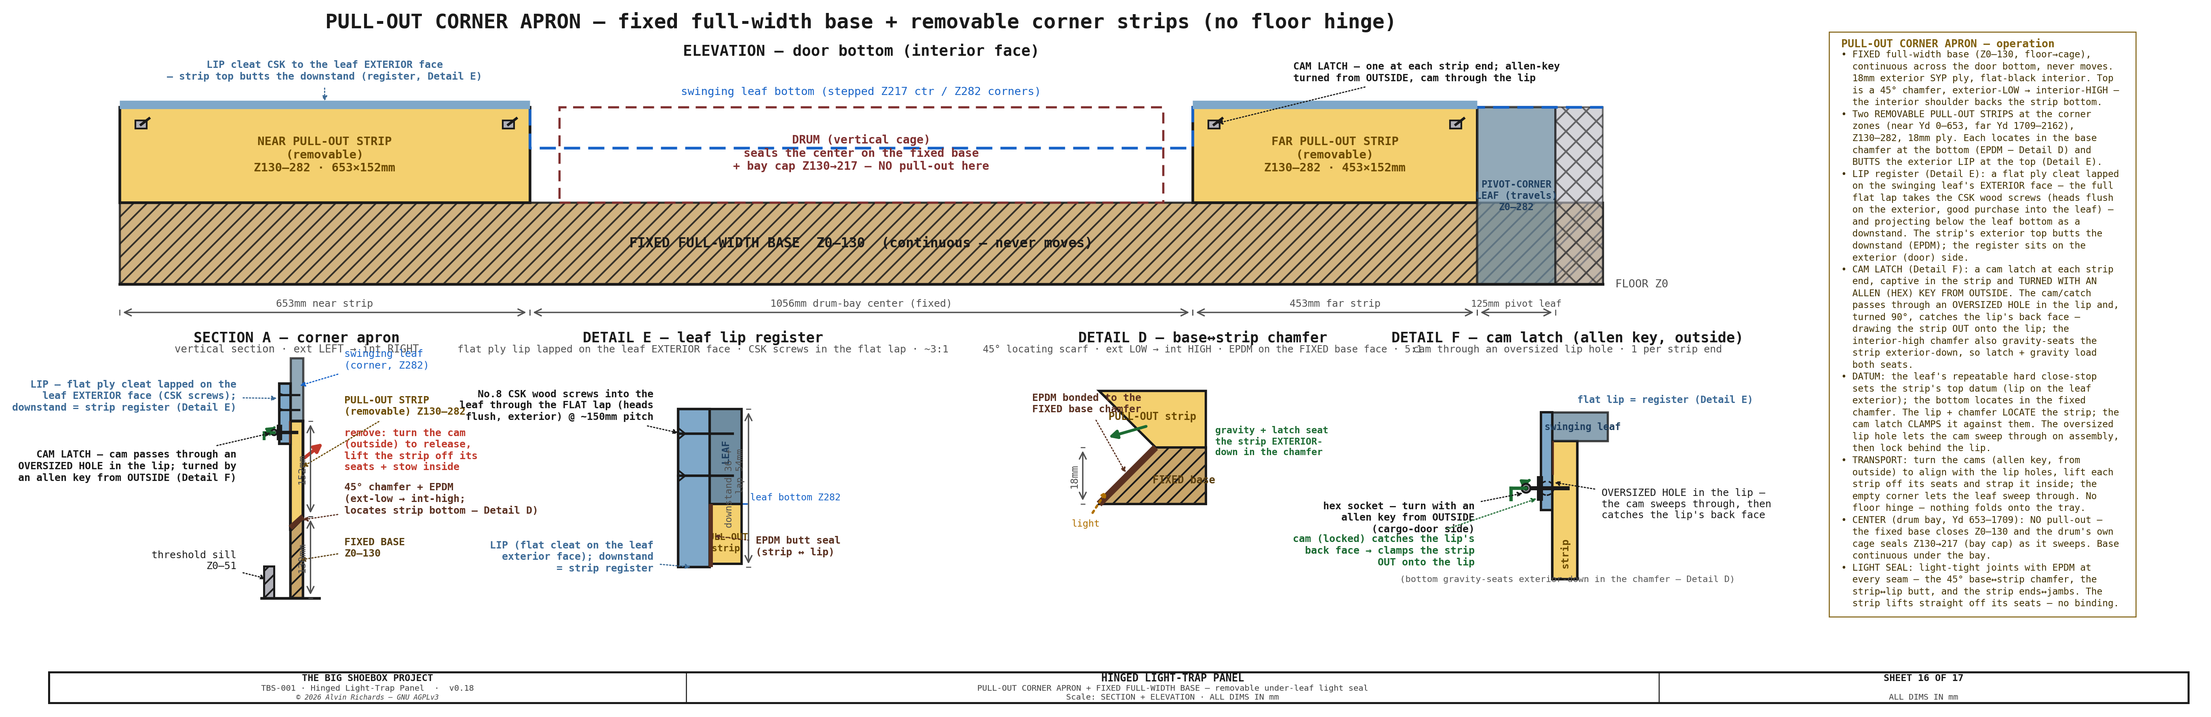
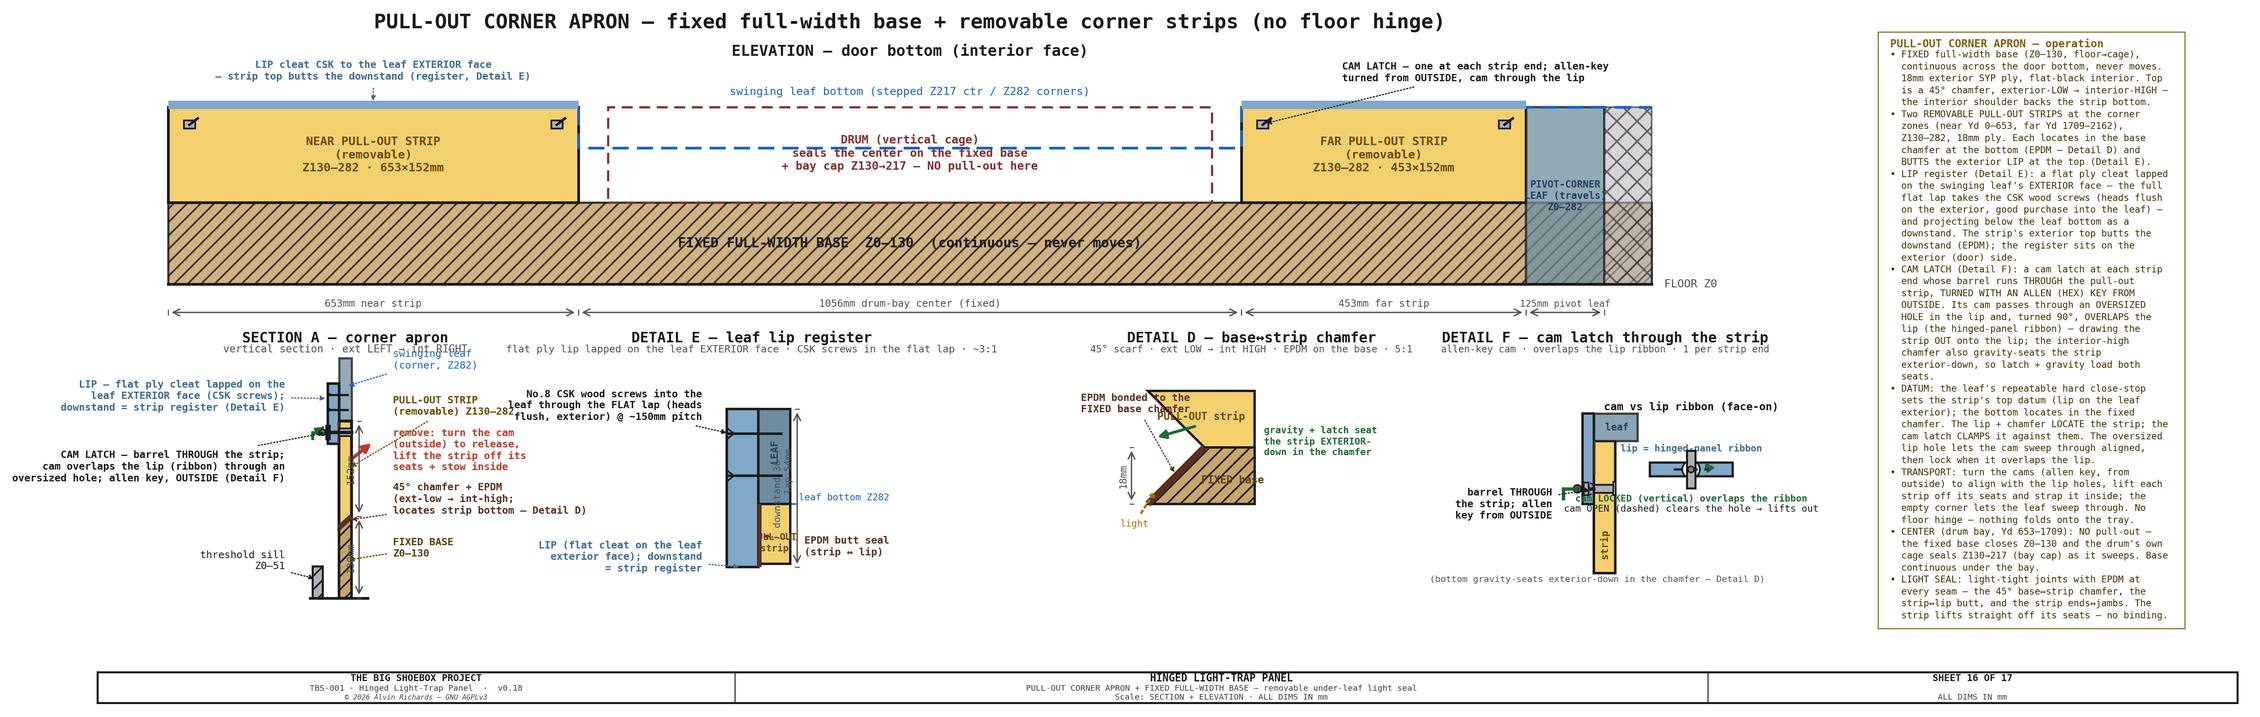
Hinged-panel Sheet 16: cam-latch barrel through the strip + face-on cam/ribbon overlap
- The latch barrel now runs THROUGH the pull-out strip (through-hole + barrel +
  captive clip), with the allen key reaching the hex from outside via the lip hole.
  Section A and Detail F updated.
- Detail F split into a section (barrel through strip, allen key) + a FACE-ON inset
  showing how the cam overlaps the lip (the hinged-panel ribbon): cam LOCKED
  (vertical) overlaps the ribbon, cam OPEN (aligned with the oversized hole) lifts
  out. Notes and header updated to 'barrel through the strip; cam overlaps the lip
  (ribbon)'. Shortened the Detail D/F subtitles to clear each other. lint + label
  checks pass.

diff --git a/src/generators/generate_hingepanel_diagram.py b/src/generators/generate_hingepanel_diagram.py
@@ -2595,10 +2595,11 @@ def sheet15():
 #   LIP on the EXTERIOR at the top — a flat ply cleat lapped on the swinging leaf's
 #   exterior face (the full flat lap takes the CSK wood screws), projecting below
 #   the leaf bottom as a downstand register the strip's exterior top butts. A CAM
-#   LATCH at each strip end is captive in the strip and TURNED WITH AN ALLEN (HEX)
-#   KEY FROM OUTSIDE: its cam passes through an OVERSIZED HOLE in the lip and, turned
-#   90°, catches the lip's back face to draw the strip OUT onto the lip, reinforcing
-#   the exterior-down gravity seat. The leaf's repeatable hard close-stop sets the
+#   LATCH at each strip end runs its barrel THROUGH the pull-out strip and is TURNED
+#   WITH AN ALLEN (HEX) KEY FROM OUTSIDE: its cam passes through an OVERSIZED HOLE in
+#   the lip and, turned 90°, OVERLAPS the lip (the hinged-panel ribbon) to draw the
+#   strip OUT onto the lip, reinforcing the exterior-down gravity seat. The leaf's
+#   repeatable hard close-stop sets the
 #   strip's top datum. For the transport swing the cams are turned from outside to
 #   align with the lip holes and each strip is lifted out (it stows strapped inside)
 #   so the leaf sweeps through the empty corner zone. The drum-bay center
@@ -2705,10 +2706,11 @@ def sheet16():
         ax.plot([aA(-18, z + 2.6)[0], aA(-13, z)[0]], [z + 2.6, z], color=C_OUT, lw=0.9, zorder=7)
         ax.plot([aA(-18, z - 2.6)[0], aA(-13, z)[0]], [z - 2.6, z], color=C_OUT, lw=0.9, zorder=7)
     ax.add_patch(Rectangle(aA(-2.5, 246), 2.5, 36, fc=C_EPDM, ec="none", zorder=7))                     # EPDM on the downstand (strip↔lip butt)
-    # CAM LATCH — cam/catch passes through an OVERSIZED HOLE in the lip; turned by an allen (hex) key from OUTSIDE
-    ax.plot([aA(10, 264)[0], aA(-26, 264)[0]], [264, 264], color=C_OUT, lw=2.0, zorder=9)               # cam shaft (captive in the strip, through the lip hole)
+    # CAM LATCH — barrel THROUGH the strip; cam passes through an OVERSIZED HOLE in the lip, overlaps it; allen key from OUTSIDE
+    ax.add_patch(Rectangle(aA(0, 258), TW, 12, fc=C_STEEL, ec=C_OUT, lw=1.0, zorder=9))                 # latch barrel through the strip
+    ax.plot([aA(TW, 264)[0], aA(-26, 264)[0]], [264, 264], color=C_OUT, lw=2.0, zorder=9)               # stem (out through the lip hole)
     ax.add_patch(Circle(aA(-26, 264), 4.5, fc=C_STEEL, ec=C_OUT, lw=1.1, zorder=10))                    # hex socket (allen-key driven)
-    ax.plot([aA(-18, 256)[0], aA(-18, 272)[0]], [256, 272], color=C_OUT, lw=3.2, zorder=9)              # cam catching the lip EXTERIOR face (locked)
+    ax.plot([aA(-18, 256)[0], aA(-18, 272)[0]], [256, 272], color=C_OUT, lw=3.2, zorder=9)              # cam OVERLAPPING the lip exterior face (locked)
     ax.plot([aA(-42, 264)[0], aA(-26, 264)[0]], [264, 264], color="#1c6b32", lw=1.7, zorder=11)         # allen key inserted from outside
     ax.plot([aA(-42, 264)[0], aA(-42, 254)[0]], [264, 254], color="#1c6b32", lw=1.7, zorder=11)         # allen key L-leg
     ax.annotate("", xy=aA(-20, 277), xytext=aA(-31, 273), arrowprops=dict(arrowstyle="-|>", color="#1c6b32", lw=1.3, connectionstyle="arc3,rad=0.5"))  # turn arrow
@@ -2717,7 +2719,7 @@ def sheet16():
 
     # — left column (exterior-side features: lip + cam latch, sill) —
     leader(ax, aA(-16, 318), (LX, 322), "LIP — flat ply cleat lapped on the\nleaf EXTERIOR face (CSK screws);\ndownstand = strip register (Detail E)", col="#3C6A96", fw="bold", fs=6, ha="right")
-    leader(ax, aA(-26, 264), (LX, 210), "CAM LATCH — cam passes through an\nOVERSIZED HOLE in the lip; turned by\nan allen key from OUTSIDE (Detail F)", col=C_OUT, fw="bold", fs=6, ha="right")
+    leader(ax, aA(-18, 264), (LX, 210), "CAM LATCH — barrel THROUGH the strip;\ncam overlaps the lip (ribbon) through an\noversized hole; allen key, OUTSIDE (Detail F)", col=C_OUT, fw="bold", fs=6, ha="right")
     leader(ax, aA(-34, 30), (LX, 60), "threshold sill\nZ0–51", col=C_OUT, fs=6, ha="right")
     # — right column (interior-side features: leaf, strip, removal, chamfer, base) —
     leader(ax, aA(10, ATOP + 55), (RX, 380), "swinging leaf\n(corner, Z282)", col="#1763C8", fs=6, ha="left")
@@ -2734,7 +2736,7 @@ def sheet16():
     def dD(x, z): return (d0 + x * SD, dbz + z * SD)
     T, xc = 18, 16
     ax.text(d0 + 33 * SD, 408, "DETAIL D — base↔strip chamfer", ha="center", fontsize=8.5, fontweight="bold", color=C_OUT, **FONT)
-    ax.text(d0 + 33 * SD, 392, "45° locating scarf · ext LOW → int HIGH · EPDM on the FIXED base face · 5:1", ha="center", fontsize=5.8, color=C_DIM, **FONT)
+    ax.text(d0 + 33 * SD, 392, "45° scarf · ext LOW → int HIGH · EPDM on the base · 5:1", ha="center", fontsize=5.8, color=C_DIM, **FONT)
     base  = [dD(0, 0), dD(xc + T, 0), dD(xc + T, T), dD(T, T)]                                         # fixed base: exterior (L) low, interior (R) high shoulder
     strip = [dD(xc + T, T), dD(T, T), dD(0, 2 * T), dD(xc + T, 2 * T)]                                 # pull-out strip, bottom chamfered to match
     ax.fill([p[0] for p in base], [p[1] for p in base], fc=C_FIXP, ec=C_OUT, lw=1.4, hatch="///", zorder=3)
@@ -2778,32 +2780,40 @@ def sheet16():
     leader(ax, eE(0.5, -18), (e0 + 26 * SE, ebz - 24 * SE), "EPDM butt seal\n(strip ↔ lip)", col=C_EPDM, fw="bold", fs=6, ha="left")
     draw_dim_v(ax, e0 + 22 * SE, ebz - 36 * SE, ebz + 54 * SE, "downstand 36 +\nlap 54mm", offset=10, fs=5.6, font=FONT)
 
-    # ══ DETAIL F (schematic) — CAM LATCH: allen-key cam through an oversized hole in the lip ══
+    # ══ DETAIL F — CAM LATCH through the strip; cam overlaps the hinged-panel lip (ribbon) ══
     f0 = 2210
-    ax.text(f0 + 96, 408, "DETAIL F — cam latch (allen key, outside)", ha="center", fontsize=8.5, fontweight="bold", color=C_OUT, **FONT)
-    ax.text(f0 + 96, 392, "cam through an oversized lip hole · 1 per strip end", ha="center", fontsize=6.0, color=C_DIM, **FONT)
-    # pull-out strip (middle)
-    ax.add_patch(Rectangle((f0 + 72, 30), 40, 220, fc=C_PULL, ec=C_OUT, lw=1.5))
-    ax.text(f0 + 92, 72, "strip", ha="center", va="center", fontsize=6, fontweight="bold", color="#6B4A00", rotation=90, **FONT)
-    # swinging leaf (above) + flat LIP on the leaf exterior face + EPDM
-    ax.add_patch(Rectangle((f0 + 72, 250), 88, 46, fc=C_PLASTIC, ec=C_OUT, lw=1.3, alpha=0.8))
-    ax.text(f0 + 120, 273, "swinging leaf", ha="center", va="center", fontsize=5.8, fontweight="bold", color="#204060", **FONT)
-    ax.add_patch(Rectangle((f0 + 54, 140), 18, 156, fc=C_CLEAT, ec=C_OUT, lw=1.4))                      # flat lip = register
-    ax.add_patch(Rectangle((f0 + 72, 196), 2.5, 54, fc=C_EPDM, ec="none"))                              # EPDM strip↔lip (clear of the latch)
-    # cam latch: shaft captive in the strip, through an OVERSIZED HOLE in the lip; hex socket + cam on the exterior; allen key from outside
-    ax.add_patch(Circle((f0 + 63, 175), 11, fc="none", ec=C_OUT, lw=0.9, ls=(0, (3, 2)), zorder=5))     # OVERSIZED HOLE in the lip
-    ax.plot([f0 + 96, f0 + 30], [175, 175], color=C_OUT, lw=2.4, zorder=6)                              # cam shaft (captive in the strip)
-    ax.plot([f0 + 52, f0 + 52], [160, 190], color=C_OUT, lw=3.6, zorder=6)                              # cam tongue catching the lip's exterior face (locked)
-    ax.add_patch(Circle((f0 + 30, 175), 7, fc=C_STEEL, ec=C_OUT, lw=1.2, zorder=7))                     # hex socket
-    ax.add_patch(Circle((f0 + 30, 175), 3, fc=BG, ec=C_OUT, lw=0.8, zorder=8))                          # hex recess
-    ax.plot([f0 + 6, f0 + 30], [175, 175], color="#1c6b32", lw=2.0, zorder=8)                           # allen key — shaft (from outside)
-    ax.plot([f0 + 6, f0 + 6], [175, 157], color="#1c6b32", lw=2.0, zorder=8)                            # allen key — L-leg
-    ax.annotate("", xy=(f0 + 42, 192), xytext=(f0 + 30, 190), arrowprops=dict(arrowstyle="-|>", color="#1c6b32", lw=1.5, connectionstyle="arc3,rad=0.5"))  # turn arrow
-    leader(ax, (f0 + 30, 168), (f0 - 52, 128), "hex socket — turn with an\nallen key from OUTSIDE\n(cargo-door side)", col=C_OUT, fw="bold", fs=6, ha="right")
-    leader(ax, (f0 + 52, 160), (f0 - 52, 76), "cam (locked) catches the lip's\nback face → clamps the strip\nOUT onto the lip", col="#1c6b32", fw="bold", fs=6, ha="right")
-    leader(ax, (f0 + 70, 185), (f0 + 150, 150), "OVERSIZED HOLE in the lip —\nthe cam sweeps through, then\ncatches the lip's back face", col=C_OUT, fs=6, ha="left")
-    ax.text(f0 + 112, 316, "flat lip = register (Detail E)", ha="left", va="center", fontsize=5.8, fontweight="bold", color="#3C6A96", **FONT)
-    ax.text(f0 + 96, 30, "(bottom gravity-seats exterior-down in the chamfer — Detail D)", ha="center", va="center", fontsize=5.3, color="#555", **FONT)
+    ax.text(f0 + 78, 408, "DETAIL F — cam latch through the strip", ha="center", fontsize=8.5, fontweight="bold", color=C_OUT, **FONT)
+    ax.text(f0 + 78, 392, "allen-key cam · overlaps the lip ribbon · 1 per strip end", ha="center", fontsize=5.7, color=C_DIM, **FONT)
+    # --- SECTION (left): barrel THROUGH the strip, allen key from OUTSIDE through the lip hole ---
+    ax.add_patch(Rectangle((f0 + 60, 40), 34, 210, fc=C_PULL, ec=C_OUT, lw=1.5))                         # pull-out strip
+    ax.text(f0 + 77, 86, "strip", ha="center", va="center", fontsize=5.8, fontweight="bold", color="#6B4A00", rotation=90, **FONT)
+    ax.add_patch(Rectangle((f0 + 60, 250), 70, 44, fc=C_PLASTIC, ec=C_OUT, lw=1.3, alpha=0.8))           # swinging leaf
+    ax.text(f0 + 97, 272, "leaf", ha="center", va="center", fontsize=5.8, fontweight="bold", color="#204060", **FONT)
+    ax.add_patch(Rectangle((f0 + 42, 150), 18, 144, fc=C_CLEAT, ec=C_OUT, lw=1.4))                       # lip (exterior of the strip)
+    ax.add_patch(Rectangle((f0 + 60, 196), 2.5, 54, fc=C_EPDM, ec="none"))                               # EPDM strip↔lip
+    ax.add_patch(Rectangle((f0 + 60, 168), 34, 13, fc=C_STEEL, ec=C_OUT, lw=1.1, zorder=6))             # latch BARREL in the strip through-hole
+    ax.add_patch(Rectangle((f0 + 91, 164), 4, 21, fc=C_STEEL, ec=C_OUT, lw=0.9, zorder=6))              # captive clip (interior end)
+    ax.add_patch(Circle((f0 + 51, 174), 10, fc="none", ec=C_OUT, lw=0.8, ls=(0, (3, 2)), zorder=5))     # oversized hole in the lip
+    ax.plot([f0 + 60, f0 + 34], [174, 174], color=C_OUT, lw=2.0, zorder=7)                              # stem out through the lip hole
+    ax.add_patch(Rectangle((f0 + 44, 164), 8, 20, fc=C_STEEL, ec=C_OUT, lw=1.0, zorder=7))              # cam OVERLAPPING the lip exterior face
+    ax.add_patch(Circle((f0 + 34, 174), 6, fc=C_STEEL, ec=C_OUT, lw=1.1, zorder=8))                     # hex socket
+    ax.add_patch(Circle((f0 + 34, 174), 2.6, fc=BG, ec=C_OUT, lw=0.7, zorder=9))                        # hex recess
+    ax.plot([f0 + 12, f0 + 34], [174, 174], color="#1c6b32", lw=2.0, zorder=9)                          # allen key (from outside)
+    ax.plot([f0 + 12, f0 + 12], [174, 158], color="#1c6b32", lw=2.0, zorder=9)
+    leader(ax, (f0 + 60, 174), (f0 - 6, 150), "barrel THROUGH\nthe strip; allen\nkey from OUTSIDE", col=C_OUT, fw="bold", fs=6, ha="right")
+    ax.text(f0 + 66, 30, "(bottom gravity-seats exterior-down in the chamfer — Detail D)", ha="center", va="center", fontsize=5.3, color="#555", **FONT)
+    # --- FACE-ON inset (right): how the cam OVERLAPS the lip ribbon ---
+    g0, gy = f0 + 215, 205
+    ax.text(g0, 300, "cam vs lip ribbon (face-on)", ha="center", fontsize=6.4, fontweight="bold", color=C_OUT, **FONT)
+    ax.add_patch(Rectangle((g0 - 66, gy - 11), 132, 22, fc=C_CLEAT, ec=C_OUT, lw=1.3))                   # lip ribbon band
+    ax.text(g0, gy + 26, "lip = hinged-panel ribbon", ha="center", va="bottom", fontsize=5.6, fontweight="bold", color="#3C6A96", **FONT)
+    ax.add_patch(Circle((g0, gy), 14, fc=BG, ec=C_OUT, lw=1.0))                                          # oversized hole
+    ax.plot([g0 - 28, g0 + 28], [gy, gy], color=C_OUT, lw=1.3, ls=(0, (4, 3)), zorder=5)                 # cam OPEN (aligned, dashed)
+    ax.add_patch(Rectangle((g0 - 7, gy - 30), 14, 60, fc=C_STEEL, ec=C_OUT, lw=1.2, zorder=6))           # cam LOCKED (overlaps the ribbon)
+    ax.add_patch(Circle((g0, gy), 5, fc="#808088", ec=C_OUT, lw=0.9, zorder=7))                          # hex drive
+    ax.annotate("", xy=(g0 + 18, gy + 15), xytext=(g0 + 21, gy - 2), arrowprops=dict(arrowstyle="-|>", color="#1c6b32", lw=1.3, connectionstyle="arc3,rad=0.5"))
+    ax.text(g0, gy - 46, "cam LOCKED (vertical) overlaps the ribbon", ha="center", va="center", fontsize=5.6, fontweight="bold", color="#1c6b32", **FONT)
+    ax.text(g0, gy - 62, "cam OPEN (dashed) clears the hole → lifts out", ha="center", va="center", fontsize=5.6, color=C_OUT, **FONT)
 
     # ══ notes ══
     draw_notes(ax, [
@@ -2811,8 +2821,8 @@ def sheet16():
         f"• FIXED full-width base (Z0–{int(BASE_TOP)}, floor→cage), continuous across the door bottom, never moves. 18mm exterior SYP ply, flat-black interior. Top is a 45° chamfer, exterior-LOW → interior-HIGH — the interior shoulder backs the strip bottom.",
         f"• Two REMOVABLE PULL-OUT STRIPS at the corner zones (near Yd 0–{int(jL)}, far Yd {int(jR)}–{int(STUB)}), Z{int(BASE_TOP)}–{int(ATOP)}, 18mm ply. Each locates in the base chamfer at the bottom (EPDM — Detail D) and BUTTS the exterior LIP at the top (Detail E).",
         "• LIP register (Detail E): a flat ply cleat lapped on the swinging leaf's EXTERIOR face — the full flat lap takes the CSK wood screws (heads flush on the exterior, good purchase into the leaf) — and projecting below the leaf bottom as a downstand. The strip's exterior top butts the downstand (EPDM); the register sits on the exterior (door) side.",
-        "• CAM LATCH (Detail F): a cam latch at each strip end, captive in the strip and TURNED WITH AN ALLEN (HEX) KEY FROM OUTSIDE. The cam/catch passes through an OVERSIZED HOLE in the lip and, turned 90°, catches the lip's back face — drawing the strip OUT onto the lip; the interior-high chamfer also gravity-seats the strip exterior-down, so latch + gravity load both seats.",
-        "• DATUM: the leaf's repeatable hard close-stop sets the strip's top datum (lip on the leaf exterior); the bottom locates in the fixed chamfer. The lip + chamfer LOCATE the strip; the cam latch CLAMPS it against them. The oversized lip hole lets the cam sweep through on assembly, then lock behind the lip.",
+        "• CAM LATCH (Detail F): a cam latch at each strip end whose barrel runs THROUGH the pull-out strip, TURNED WITH AN ALLEN (HEX) KEY FROM OUTSIDE. Its cam passes through an OVERSIZED HOLE in the lip and, turned 90°, OVERLAPS the lip (the hinged-panel ribbon) — drawing the strip OUT onto the lip; the interior-high chamfer also gravity-seats the strip exterior-down, so latch + gravity load both seats.",
+        "• DATUM: the leaf's repeatable hard close-stop sets the strip's top datum (lip on the leaf exterior); the bottom locates in the fixed chamfer. The lip + chamfer LOCATE the strip; the cam latch CLAMPS it against them. The oversized lip hole lets the cam sweep through aligned, then lock when it overlaps the lip.",
         "• TRANSPORT: turn the cams (allen key, from outside) to align with the lip holes, lift each strip off its seats and strap it inside; the empty corner lets the leaf sweep through. No floor hinge — nothing folds onto the tray.",
         f"• CENTER (drum bay, Yd {int(jL)}–{int(jR)}): NO pull-out — the fixed base closes Z0–{int(BASE_TOP)} and the drum's own cage seals Z{int(BASE_TOP)}→{int(BAYB)} (bay cap) as it sweeps. Base continuous under the bay.",
         "• LIGHT SEAL: light-tight joints with EPDM at every seam — the 45° base↔strip chamfer, the strip↔lip butt, and the strip ends↔jambs. The strip lifts straight off its seats — no binding.",

diff --git a/RELEASE.md b/RELEASE.md
@@ -26,7 +26,7 @@ is no separate publish step to run afterward.
 
 ## [Unreleased]
 
-- **Hinged-panel Sheet 16 — redesigned the bottom light seal as a PULL-OUT CORNER APRON (replaces the fold-down apron).** The fold-down apron folded INTO the container and, at `CORNER_BOT`=282 (folded reach X310), landed on the processing tray (X280) — it can't hinge to the floor. New design (2D Sheet 16 only, this commit): a **FIXED full-width base** (Z0–130, floor→cage, continuous, never moves) + two **REMOVABLE pull-out STRIPS** at the corner zones (near Yd0–653, far Yd1709–2162; Z130–282, 18mm ply). Each strip **locates in the base's 45° chamfer** at the bottom (exterior-LOW → interior-HIGH, so the interior shoulder backs the strip; EPDM — Detail D) and **butts a flat LIP on the EXTERIOR** at the top — a flat ply cleat lapped on the swinging leaf's **exterior** face (the full flat lap takes the CSK wood screws, heads flush on the exterior, good purchase into the leaf), projecting below the leaf bottom as a downstand register the strip's exterior top butts (EPDM — Detail E). A **CAM LATCH at each strip end, captive in the strip and TURNED WITH AN ALLEN (HEX) KEY FROM OUTSIDE**: its cam passes through an **oversized hole in the lip** and, turned 90°, catches the lip's back face to draw the strip **OUT onto the lip**; because the chamfer is interior-high the strip also gravity-seats exterior-down, so latch + gravity load both seats (Detail F). The leaf's repeatable hard close-stop sets the strip's top datum; the lip + chamfer LOCATE the strip and the cam latch CLAMPS it. For the transport swing the cams are turned from outside to release, each strip lifted off its seats and **stowed strapped inside** so the leaf sweeps through the empty corner zone (no floor hinge, nothing over the tray). The drum-bay center keeps the fixed base + the drum's own sweep. **Cascade still OWED** (next stage, not in this commit): the 3D model (`generate_lighttrap_model.py` still builds the fold-down apron + DC states), the `hinged-panel-report.md` §6 narrative + parts list, `parts.py` (retire piano-hinges/foam/lapping-board → add pull-out strips + exterior lip cleats + CSK screws + allen-key cam latches + straps, with pricing), `costing.py`, `master-shopping-list.md`, `project-cost-breakdown.md`, `plywood-cut-sheets.md`; plus the removal-path kinematics + the near-stile notch at Yd0.
+- **Hinged-panel Sheet 16 — redesigned the bottom light seal as a PULL-OUT CORNER APRON (replaces the fold-down apron).** The fold-down apron folded INTO the container and, at `CORNER_BOT`=282 (folded reach X310), landed on the processing tray (X280) — it can't hinge to the floor. New design (2D Sheet 16 only, this commit): a **FIXED full-width base** (Z0–130, floor→cage, continuous, never moves) + two **REMOVABLE pull-out STRIPS** at the corner zones (near Yd0–653, far Yd1709–2162; Z130–282, 18mm ply). Each strip **locates in the base's 45° chamfer** at the bottom (exterior-LOW → interior-HIGH, so the interior shoulder backs the strip; EPDM — Detail D) and **butts a flat LIP on the EXTERIOR** at the top — a flat ply cleat lapped on the swinging leaf's **exterior** face (the full flat lap takes the CSK wood screws, heads flush on the exterior, good purchase into the leaf), projecting below the leaf bottom as a downstand register the strip's exterior top butts (EPDM — Detail E). A **CAM LATCH at each strip end whose barrel runs THROUGH the pull-out strip, TURNED WITH AN ALLEN (HEX) KEY FROM OUTSIDE**: its cam passes through an **oversized hole in the lip** and, turned 90°, **OVERLAPS the lip (the hinged-panel ribbon)** to draw the strip **OUT onto the lip**; because the chamfer is interior-high the strip also gravity-seats exterior-down, so latch + gravity load both seats (Detail F shows the section + a face-on cam/ribbon view). The leaf's repeatable hard close-stop sets the strip's top datum; the lip + chamfer LOCATE the strip and the cam latch CLAMPS it. For the transport swing the cams are turned from outside to release, each strip lifted off its seats and **stowed strapped inside** so the leaf sweeps through the empty corner zone (no floor hinge, nothing over the tray). The drum-bay center keeps the fixed base + the drum's own sweep. **Cascade still OWED** (next stage, not in this commit): the 3D model (`generate_lighttrap_model.py` still builds the fold-down apron + DC states), the `hinged-panel-report.md` §6 narrative + parts list, `parts.py` (retire piano-hinges/foam/lapping-board → add pull-out strips + exterior lip cleats + CSK screws + allen-key cam latches + straps, with pricing), `costing.py`, `master-shopping-list.md`, `project-cost-breakdown.md`, `plywood-cut-sheets.md`; plus the removal-path kinematics + the near-stile notch at Yd0.
 - **Hinged-panel report §5.3 — documented WHY the panel bottom is stepped** (corner zones 282mm vs center 217mm). The corners step up to clear the **bare wall-cantilever walkway-bracket legs** (~200mm) on the transport swing with the grate lifted out; the center drum-bay zone has no brackets, so it stays at 217mm. Noted that this corner height (`CORNER_BOT`=`PANEL_FLOOR_GAP_SIDE`) also sets the corner apron height, hence how far the fold-down apron reaches when folded flat — the link behind the apron↔tray collision surfaced in review.
 - **Light-trap 3D — corrected the `context()` floor datum to the cargo-door closing plane (floor-only; walls/ceiling break the DC).** The context floor started at the inner door plane (X=0), which made the drum bay/structure read as "outside" the container. Moved the floor's cargo-door-end edge to the real **closing plane `DOOR_HINGE_X` = −85** (where the ISO doors close, per the door builder), so the door frame + fold-down apron read INSIDE the end and the doors close against it; the **drum bay extends ~805mm beyond** (to `BAY_FRONT_X` = −890) as the DEPLOYED external light-lock vestibule (panel+drum swing 56° in for transport so the ISO doors close — correct). A low-alpha roof + side-wall ghost was tried for orientation but **removed — at any alpha the walls intercept the DC click/swing interaction** (Panel-Swing + Cargo-Door components stop animating) and box in the corner. Kept floor-only. `lighttrap` re-sent + saved + pushed to Sketchfab.
 - **Light-trap apron — fixed-apron experiment REVERTED; the apron stays a fold-down (hinged) design (DECISION, do not re-propose).** A fixed two-ply glued apron was built out across 2D Sheet 16 + 3D + parts/costing/cut-sheet (commits `3721b105..20790300`) to "reduce complexity," then found to **block the panel swing**. The panel swings as a pure **horizontal** rotation (RotZ) about the vertical Ø89 pivot — the leaf bottom stays at Z282 and sweeps **sideways, it never lifts** — so any fixed apron reaching the seal plane where the leaf sweeps (X≥0, inboard of the leaf outer face) sits in the swing path and binds the panel. For a fixed apron the door/cargo-edge clearance (seal forced inboard → X16) and the swing clearance (seal must stay at the leaf outer edge X≤0) are **mutually exclusive** — a 36mm two-ply sandwich can't fit the ~20mm window; the fold-down exists precisely to drop the apron out of the horizontal sweep. Reverted all 16 files to the fold-down state (`9b849c3c`) and recorded the constraint in `generate_lighttrap_model.py` (a prominent DESIGN CONSTRAINT block) + `hinged-panel-report.md` §6 path #3. **Outstanding:** reconcile the remaining 2D/3D apron issues to the hinged design (this seam is the intersection of panel-swing + door frame + cargo-door clearance + drum cage + floor gap).
